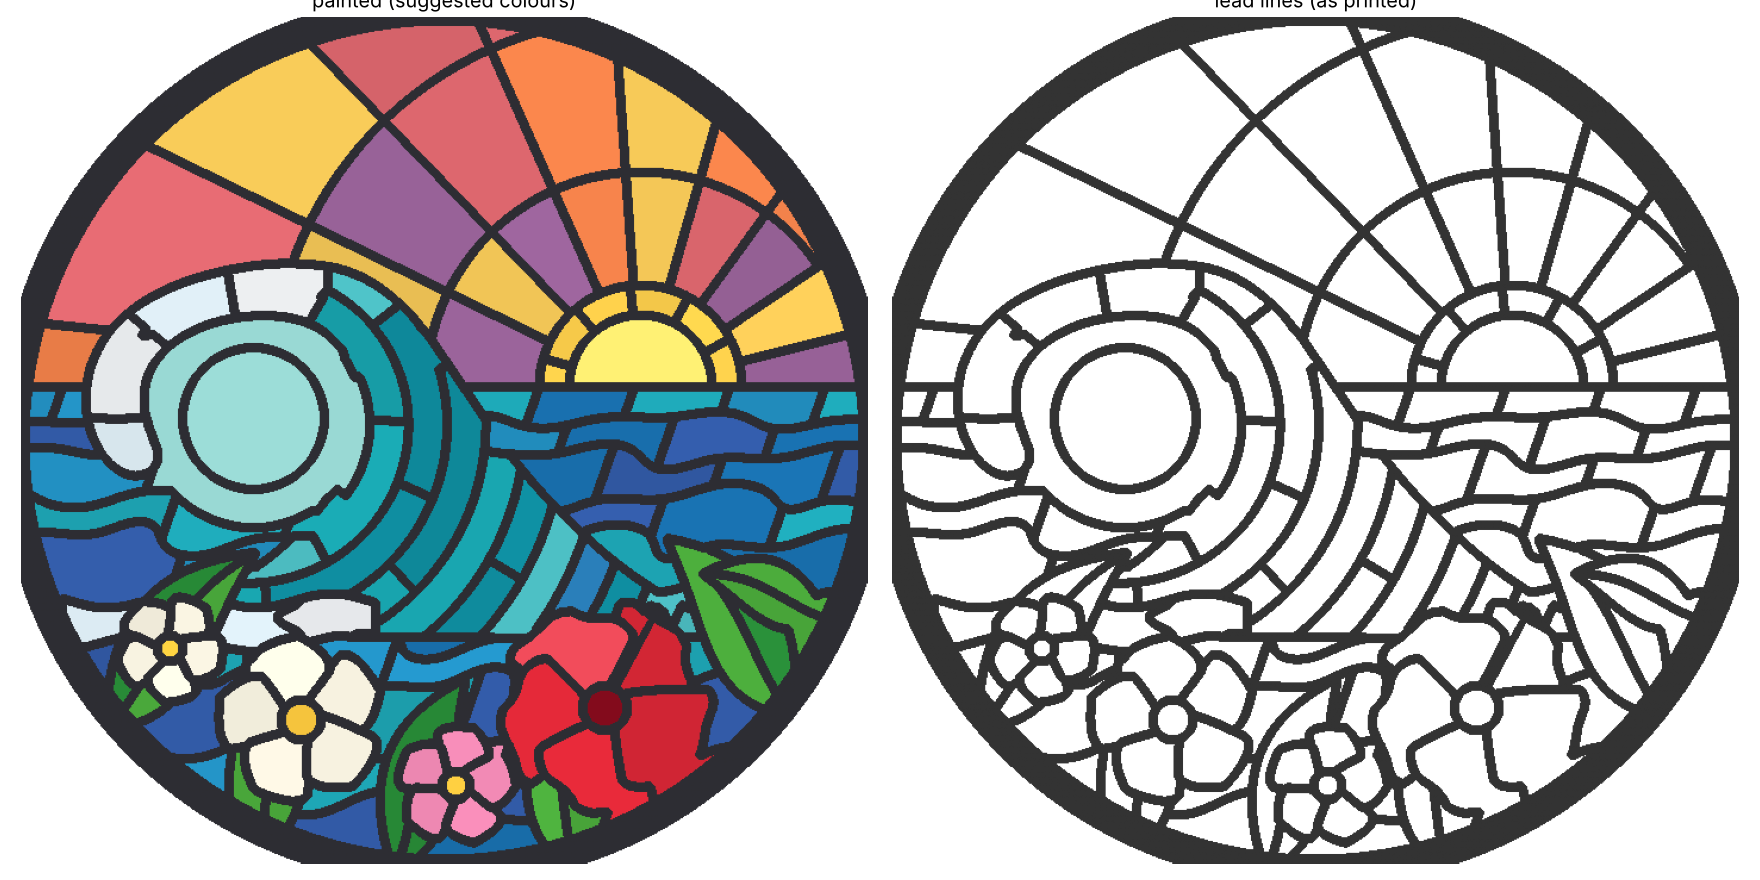
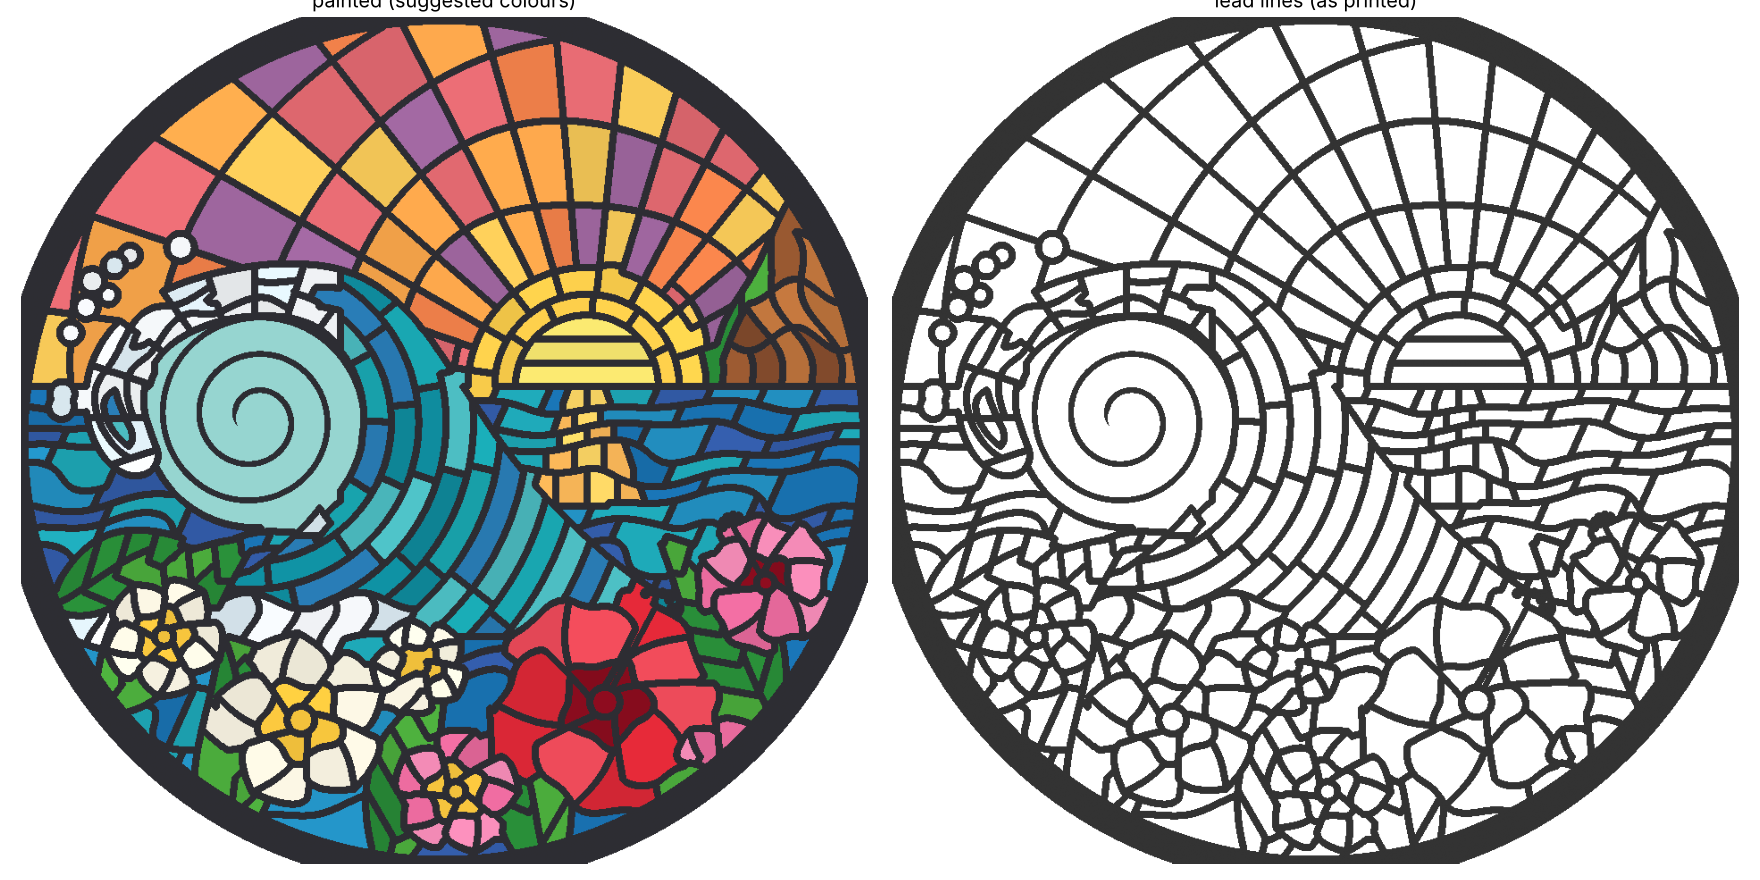
wave-suncatcher: more detail (about 375 cells)
Finer sky rays and sea shards, sun path on the water, banded sun, headland,
spiral barrel, spray droplets, split petals and veined ti leaves, more
flowers; thinner 1.0 mm lines.

Claude-Session: https://claude.ai/code/session_017ftLatXiQgThsoC1M9thCT

diff --git a/3d-prints/wave-suncatcher/suncatcher.py b/3d-prints/wave-suncatcher/suncatcher.py
@@ -43,15 +43,15 @@ RING_W, RING_T = 5.0, 4.0      # frame width and thickness
 R_OUT = D / 2
 R_IN = R_OUT - RING_W
 PANE_T = 1.6                   # the clear pane
-LINE_W, LINE_H = 1.3, 1.1      # lead lines: width, height above the pane
+LINE_W, LINE_H = 1.0, 1.0      # lead lines: width, height above the pane
 LOOP = dict(r=4.0, tube=2.0)   # hanging loop: hole radius, tube radius
 
 HORIZON = 9.0
-SUN = np.array([33.0, HORIZON]), 12.0
+SUN = np.array([24.0, HORIZON]), 12.0
 WAVE = dict(H=60.0, foot=-30.0, x=-9.0, sx=1.75)
 
-MIN_AREA = 9.0                 # mm^2: smaller cells are merged
-MIN_HALF = 1.5                 # mm: cells thinner than 2x this are merged
+MIN_AREA = 5.0                 # mm^2: smaller cells are merged
+MIN_HALF = 1.15                # mm: cells thinner than 2x this are merged
 
 # paint colours for the guide (glass-paint names), by category
 PALETTE = {
@@ -67,7 +67,9 @@ PALETTE = {
     "plum_c": [(1.0, 0.80, 0.25)],
     "hibiscus": [(0.88, 0.16, 0.22), (0.95, 0.30, 0.36)],
     "hib_c": [(0.55, 0.05, 0.12)],
-    "pink": [(0.96, 0.55, 0.72)],
+    "pink": [(0.96, 0.55, 0.72), (0.92, 0.42, 0.62)],
+    "rock": [(0.62, 0.36, 0.20), (0.75, 0.46, 0.24), (0.52, 0.30, 0.18)],
+    "glint": [(1.0, 0.85, 0.40), (0.98, 0.72, 0.35)],
 }
 
 
@@ -150,100 +152,167 @@ class Map:
             self.paint(mask & (keys == k), cat)
 
 
+def local(X, Y, C, a):
+    """Coordinates along (u) and across (v) a direction a from point C."""
+    dx, dy = X - C[0], Y - C[1]
+    return dx * np.cos(a) + dy * np.sin(a), -dx * np.sin(a) + dy * np.cos(a)
+
+
 def design(res):
-    """The scene on a grid of pitch res. Returns xs, ys, the cell id map
-    (0 = outside the pane), each cell's category, and the distance to the
+    """The scene on a grid of pitch res. Returns xs, the region map
+    (0 = outside the pane), each region's category, and the distance to the
     free lines."""
     xs = np.arange(-R_IN - 1, R_IN + 1 + res, res)
     X, Y = np.meshgrid(xs, xs, indexing="ij")
     M = Map(X, Y)
     r = np.hypot(X, Y)
+    dfree = np.full(X.shape, 1e9)
 
-    # sky: rays from the sun, split by two wavy arcs
+    # sky: rays from the sun, split by arcs
     S, sr = SUN
     rs = np.hypot(X - S[0], Y - S[1])
     th = np.degrees(np.arctan2(Y - S[1], X - S[0]))
-    ray = np.floor((th + 6) / 20.0).astype(int)
-    ring = np.digitize(rs, [36.0, 62.0])
+    ray = np.floor((th + 4) / 11.0).astype(int)
+    arcs = np.cumsum([21.0, 11.0, 12.0, 13.0, 14.0, 16.0])
+    ring = np.digitize(rs + 1.6 * np.sin(np.radians(th) * 3 + rs / 9), arcs)
     sky = Y >= HORIZON
     M.paint_split(sky, ray * 10 + ring, "sky")
-    # sun and its glow
-    M.paint_split(sky & (rs < sr + 5), np.floor((th + 6) / 34.0).astype(int), "glow")
-    M.paint(sky & (rs < sr), "sun")
+    # sun: rings of glow, the disc in sunset bands
+    M.paint_split(sky & (rs < sr + 8), np.floor((th + 4) / 22.0).astype(int), "glow")
+    M.paint_split(sky & (rs < sr + 3.5), np.floor((th + 4) / 30.0).astype(int) + 100, "glow")
+    M.paint_split(sky & (rs < sr), np.floor((Y - HORIZON) / (sr / 3)).astype(int), "sun")
 
-    # sea: shards in bands that widen toward the viewer
+    # a headland at the right: green top, rocky face
+    hx = 45.0
+    ridge = HORIZON + np.clip((X - hx) / 16.0, 0, 1) ** 0.6 * 34 + 1.5 * np.sin(X / 2.2)
+    land = (X > hx - 0.0) & (Y > HORIZON - 0.01) & (Y < ridge)
+    green = land & (Y > ridge - 5 - 1.2 * np.sin(X / 1.7))
+    rock_key = np.floor((X + 0.35 * Y + 1.5 * np.sin(Y / 3)) / 5.0).astype(int) * 10 + np.floor((Y - HORIZON + 2 * np.sin(X / 2.5)) / 8.0).astype(int)
+    M.paint_split(land, rock_key, "rock")
+    M.paint_split(green, np.floor(X / 5.0).astype(int), "leaf")
+
+    # sea: small shards in bands that widen toward the viewer
     depth = HORIZON - Y
     wob = 1.2 * np.sin(X / 7.0 + 0.4 * depth) + 0.7 * np.sin(X / 3.1 - 1.0)
-    edges = np.cumsum(np.linspace(5.5, 11.0, 10))
+    edges = np.cumsum(np.linspace(3.3, 7.5, 16))
     band = np.digitize(depth + wob * np.sqrt(np.clip(depth, 0, None)) / 3.0, edges)
-    shard = np.floor((X + 3.0 * band + 0.35 * depth + 9 * (band % 2)) / (16 + 1.5 * band)).astype(int)
+    shard = np.floor((X + 3.0 * band + 0.45 * depth + 5 * (band % 2)) / (9 + 0.9 * band)).astype(int)
     M.paint_split(~sky, band * 100 + shard, "sea")
+    # the sun's path on the water: a column of finer, golden shards
+    glint = (~sky) & (np.abs(X - S[0]) < 3.0 + 0.35 * depth) & (depth < 20)
+    gk = band * 100 + np.floor((X - S[0] + 2.0 * (band % 2)) / (4.0 + 0.3 * band)).astype(int)
+    M.paint_split(glint, gk, "glint")
 
     # the wave
     P = wave_poly()
     dw = nalu.poly_sdf(X, Y, P)
     inw = dw < 0
-    # the middle of the barrel: of the open points under the lip, the one
-    # farthest from the water
     above = np.flip(np.maximum.accumulate(np.flip(inw, 1), 1), 1)
     cand = (dw > 0) & above & (Y > WAVE["foot"] + 8) & (X < WAVE["x"] + 10)
     i = np.argmax(np.where(cand, dw, -1))
     C, room = np.array([X.ravel()[i], Y.ravel()[i]]), dw.ravel()[i]
     rr = np.hypot(X - C[0], Y - C[1])
     tt = np.arctan2(Y - C[1], X - C[0])
-    phase = rr / 6.5 + tt / (2 * np.pi)
+    phase = rr / 4.6 + tt / (2 * np.pi)
     bandw = np.floor(phase).astype(int)
-    cut = np.floor((np.degrees(tt) + 180 + 23 * bandw) / 62.0).astype(int)
+    cut = np.floor((np.degrees(tt) + 180 + 17 * bandw) / (34.0 - 0.8 * np.clip(bandw, 0, 12))).astype(int)
     M.paint_split(inw, bandw * 100 + cut, "wave")
-    # the tube: the hollow under the lip
-    crest_x = P[np.argmax(P[:, 1]), 0]
+    # the tube: rings spiralling into the barrel
     tube = rr < room * 1.08
-    M.paint_split(tube, (rr > room * 0.7).astype(int), "tube")
-    # white water: a scalloped band along the lip and the curl
-    scal = 4.2 + 1.3 * np.sin(tt * 7 + rr / 3.0)
-    foam = inw & (-dw < scal) & (X < crest_x + 6) & (Y > WAVE["foot"] + 14)
-    M.paint_split(foam, np.floor((np.degrees(tt) + 180) / 40.0).astype(int), "foam")
+    M.paint(tube, "tube")
+    # one spiral lead line winding into the barrel (a free line, no seam)
+    sp = room * 0.36
+    f = np.mod(rr / sp + tt / (2 * np.pi), 1.0)
+    spiral = np.minimum(f, 1 - f) * sp
+    dfree = np.where(tube & (rr > 0.5 * sp), np.minimum(dfree, spiral), dfree)
+    crest_x = P[np.argmax(P[:, 1]), 0]
+    # white water: a scalloped band along the lip, in small pieces
+    scal = 4.6 + 1.6 * np.sin(tt * 9 + rr / 3.0)
+    foam = inw & (-dw < scal) & (X < crest_x + 8) & (Y > WAVE["foot"] + 14)
+    fk = np.floor((np.degrees(tt) + 180) / 18.0).astype(int) * 10 + (-dw > scal * 0.5)
+    M.paint_split(foam, fk, "foam")
+    # spray droplets off the lip
+    rng = np.random.default_rng(7)
+    lip = P[(P[:, 1] > WAVE["foot"] + 0.55 * WAVE["H"]) & (P[:, 0] < crest_x)]
+    drops = 0
+    for _ in range(400):
+        q = lip[rng.integers(len(lip))]
+        nrm = q - C
+        nrm = nrm / np.linalg.norm(nrm)
+        c = q + nrm * rng.uniform(3.0, 9.0)
+        rad = rng.uniform(1.6, 2.4)
+        if nalu.poly_sdf(np.array([c[0]]), np.array([c[1]]), P)[0] < rad + 1.6 or np.hypot(*c) > R_IN - 4:
+            continue
+        m = np.hypot(X - c[0], Y - c[1]) < rad
+        if (M.lab[m] < 0).any():
+            continue
+        M.paint(m, "foam")
+        drops += 1
+        if drops >= 9:
+            break
     # whitewater where the wave meets the sea
-    sea_line = WAVE["foot"] + 3 + 1.2 * np.sin(X / 4.0)
-    wash = (Y < sea_line) & (Y > WAVE["foot"] - 4 - 1.5 * np.sin(X / 5.5 + 1)) & (X < crest_x + 14) & (X > -64)
-    M.paint_split(wash, np.floor((X + 2 * np.sin(Y)) / 13.0).astype(int), "foam")
+    sea_line = WAVE["foot"] + 3 + 1.4 * np.sin(X / 3.0)
+    wash = (Y < sea_line) & (Y > WAVE["foot"] - 4 - 1.5 * np.sin(X / 4.5 + 1)) & (X < crest_x + 22) & (X > -66)
+    M.paint_split(wash, np.floor((X + 1.5 * np.sin(Y / 2.0)) / 6.5).astype(int), "foam")
 
-    # ti leaves along the bottom, behind the flowers
-    leaves = [((-56, -48), 50, 38, 14, 0.12), ((-30, -70), 95, 34, 13, -0.12),
-              ((-8, -72), 70, 34, 12, 0.12), ((22, -72), 105, 32, 12, -0.10),
-              ((58, -46), 125, 36, 14, -0.12), ((64, -30), 160, 22, 10, -0.12)]
+    # ti leaves along the bottom, behind the flowers, each split by its
+    # midrib and slanting side veins
+    leaves = [((-58, -46), 48, 40, 15, 0.12), ((-36, -70), 92, 38, 14, -0.12),
+              ((-10, -73), 72, 34, 12, 0.12), ((18, -74), 108, 34, 13, -0.10),
+              ((56, -48), 122, 38, 15, -0.12), ((66, -30), 158, 26, 11, -0.12),
+              ((-66, -28), 25, 26, 11, 0.12), ((40, -68), 80, 30, 11, 0.12)]
     for base, ang, L, Wd, bend in leaves:
-        for k, h in enumerate(leaf_poly(np.array(base, float), np.radians(ang), L, Wd, bend)):
-            M.paint(nalu.poly_sdf(X, Y, h) < 0, "leaf")
+        a = np.radians(ang)
+        u, v = local(X, Y, np.array(base, float), a)
+        for k, h in enumerate(leaf_poly(np.array(base, float), a, L, Wd, bend)):
+            m = nalu.poly_sdf(X, Y, h) < 0
+            M.paint_split(m, np.floor((u - 0.9 * np.abs(v)) / 6.0).astype(int), "leaf")
 
     # flowers
-    def plumeria(Cf, R, rot, cat="plumeria"):
+    def petal_split(Cf, R, a, Pp, cat, inner_cat, inner=0.42):
+        """A petal in four: each side of its vein, inner throat and outer."""
+        m = nalu.poly_sdf(X, Y, Pp) < 0
+        off = 0.15 * R
+        c = Cf + np.array([-off * np.sin(a), off * np.cos(a)])
+        u, v = local(X, Y, c, a)
+        rr_ = np.hypot(X - Cf[0], Y - Cf[1])
+        side = (v > 0.12 * R * np.sin(np.pi * np.clip(u / R, 0, 1))).astype(int)
+        throat = rr_ < inner * R * (1 + 0.15 * np.sin(4 * np.arctan2(v, u)))
+        M.paint_split(m & ~throat, side, cat)
+        M.paint_split(m & throat, side, inner_cat)
+
+    def plumeria(Cf, R, rot, cat="plumeria", throat="plum_c"):
         for k in range(5):
-            Pp = petal_poly(R, 2 * np.pi * k / 5 + rot) + Cf
-            M.paint(nalu.poly_sdf(X, Y, Pp) < 0, cat)
-        M.paint(np.hypot(X - Cf[0], Y - Cf[1]) < 0.24 * R, "plum_c")
+            a = 2 * np.pi * k / 5 + rot
+            petal_split(Cf, R, a, petal_poly(R, a) + Cf, cat, throat, inner=0.45)
+        M.paint(np.hypot(X - Cf[0], Y - Cf[1]) < 0.16 * R, throat)
 
     def hibiscus(Cf, R, rot, cat="hibiscus"):
         for k in range(5):
-            Pp = petal_poly(R, 2 * np.pi * k / 5 + rot, ruffle=0.05, width=0.62) + Cf
-            M.paint(nalu.poly_sdf(X, Y, Pp) < 0, cat)
-        M.paint(np.hypot(X - Cf[0], Y - Cf[1]) < 0.22 * R, "hib_c")
+            a = 2 * np.pi * k / 5 + rot
+            petal_split(Cf, R, a, petal_poly(R, a, ruffle=0.05, width=0.62) + Cf, cat, "hib_c", inner=0.4)
+        M.paint(np.hypot(X - Cf[0], Y - Cf[1]) < 0.14 * R, "hib_c")
 
-    hib = (np.array([27.0, -45.0]), 17.0, 0.5)
-    hibiscus(*hib)
-    plumeria(np.array([-24.0, -47.0]), 14.0, 0.2)
-    plumeria(np.array([2.0, -58.0]), 10.0, 1.1, cat="pink")
-    plumeria(np.array([-46.0, -35.0]), 9.0, 0.7)
+    def stamen(Cf, R, ang):
+        nonlocal dfree
+        a = np.radians(ang)
+        tip = Cf + 0.98 * R * np.array([np.cos(a), np.sin(a)])
+        dfree = np.minimum(dfree, seg_dist(X, Y, Cf + 0.16 * R * np.array([np.cos(a), np.sin(a)]), tip))
+        for k in range(5):
+            b = a + np.radians(-56 + 28 * k)
+            q = tip + 0.17 * R * np.array([np.cos(b), np.sin(b)])
+            dfree = np.minimum(dfree, np.hypot(X - q[0], Y - q[1]) - 0.45)
 
-    # free lines: the hibiscus stamen with its pollen dots
-    Hc, HR, _ = hib
-    a = np.radians(62)
-    tip = Hc + 0.95 * HR * np.array([np.cos(a), np.sin(a)])
-    dfree = seg_dist(X, Y, Hc + 0.22 * HR * np.array([np.cos(a), np.sin(a)]), tip)
-    for k in range(5):
-        b = a + np.radians(-50 + 25 * k)
-        q = tip + 2.6 * np.array([np.cos(b), np.sin(b)])
-        dfree = np.minimum(dfree, np.hypot(X - q[0], Y - q[1]) - 0.5)
+    hibs = [((27.0, -44.0), 18.0, 0.5, 62), ((54.0, -24.0), 11.0, 1.4, 120)]
+    for c, R, rot, sa in hibs:
+        hibiscus(np.array(c), R, rot, cat="hibiscus" if R > 12 else "pink")
+    plumeria(np.array([-24.0, -47.0]), 14.5, 0.2)
+    plumeria(np.array([2.0, -59.0]), 10.5, 1.1, cat="pink")
+    plumeria(np.array([-47.0, -33.0]), 10.0, 0.7)
+    plumeria(np.array([-4.0, -38.0]), 8.0, 0.4)
+    plumeria(np.array([47.0, -55.0]), 8.5, 0.9, cat="pink")
+    for c, R, rot, sa in hibs:
+        stamen(np.array(c), R, sa)
 
     # outside the frame opening
     M.lab[r > R_IN + 0.4] = 0
